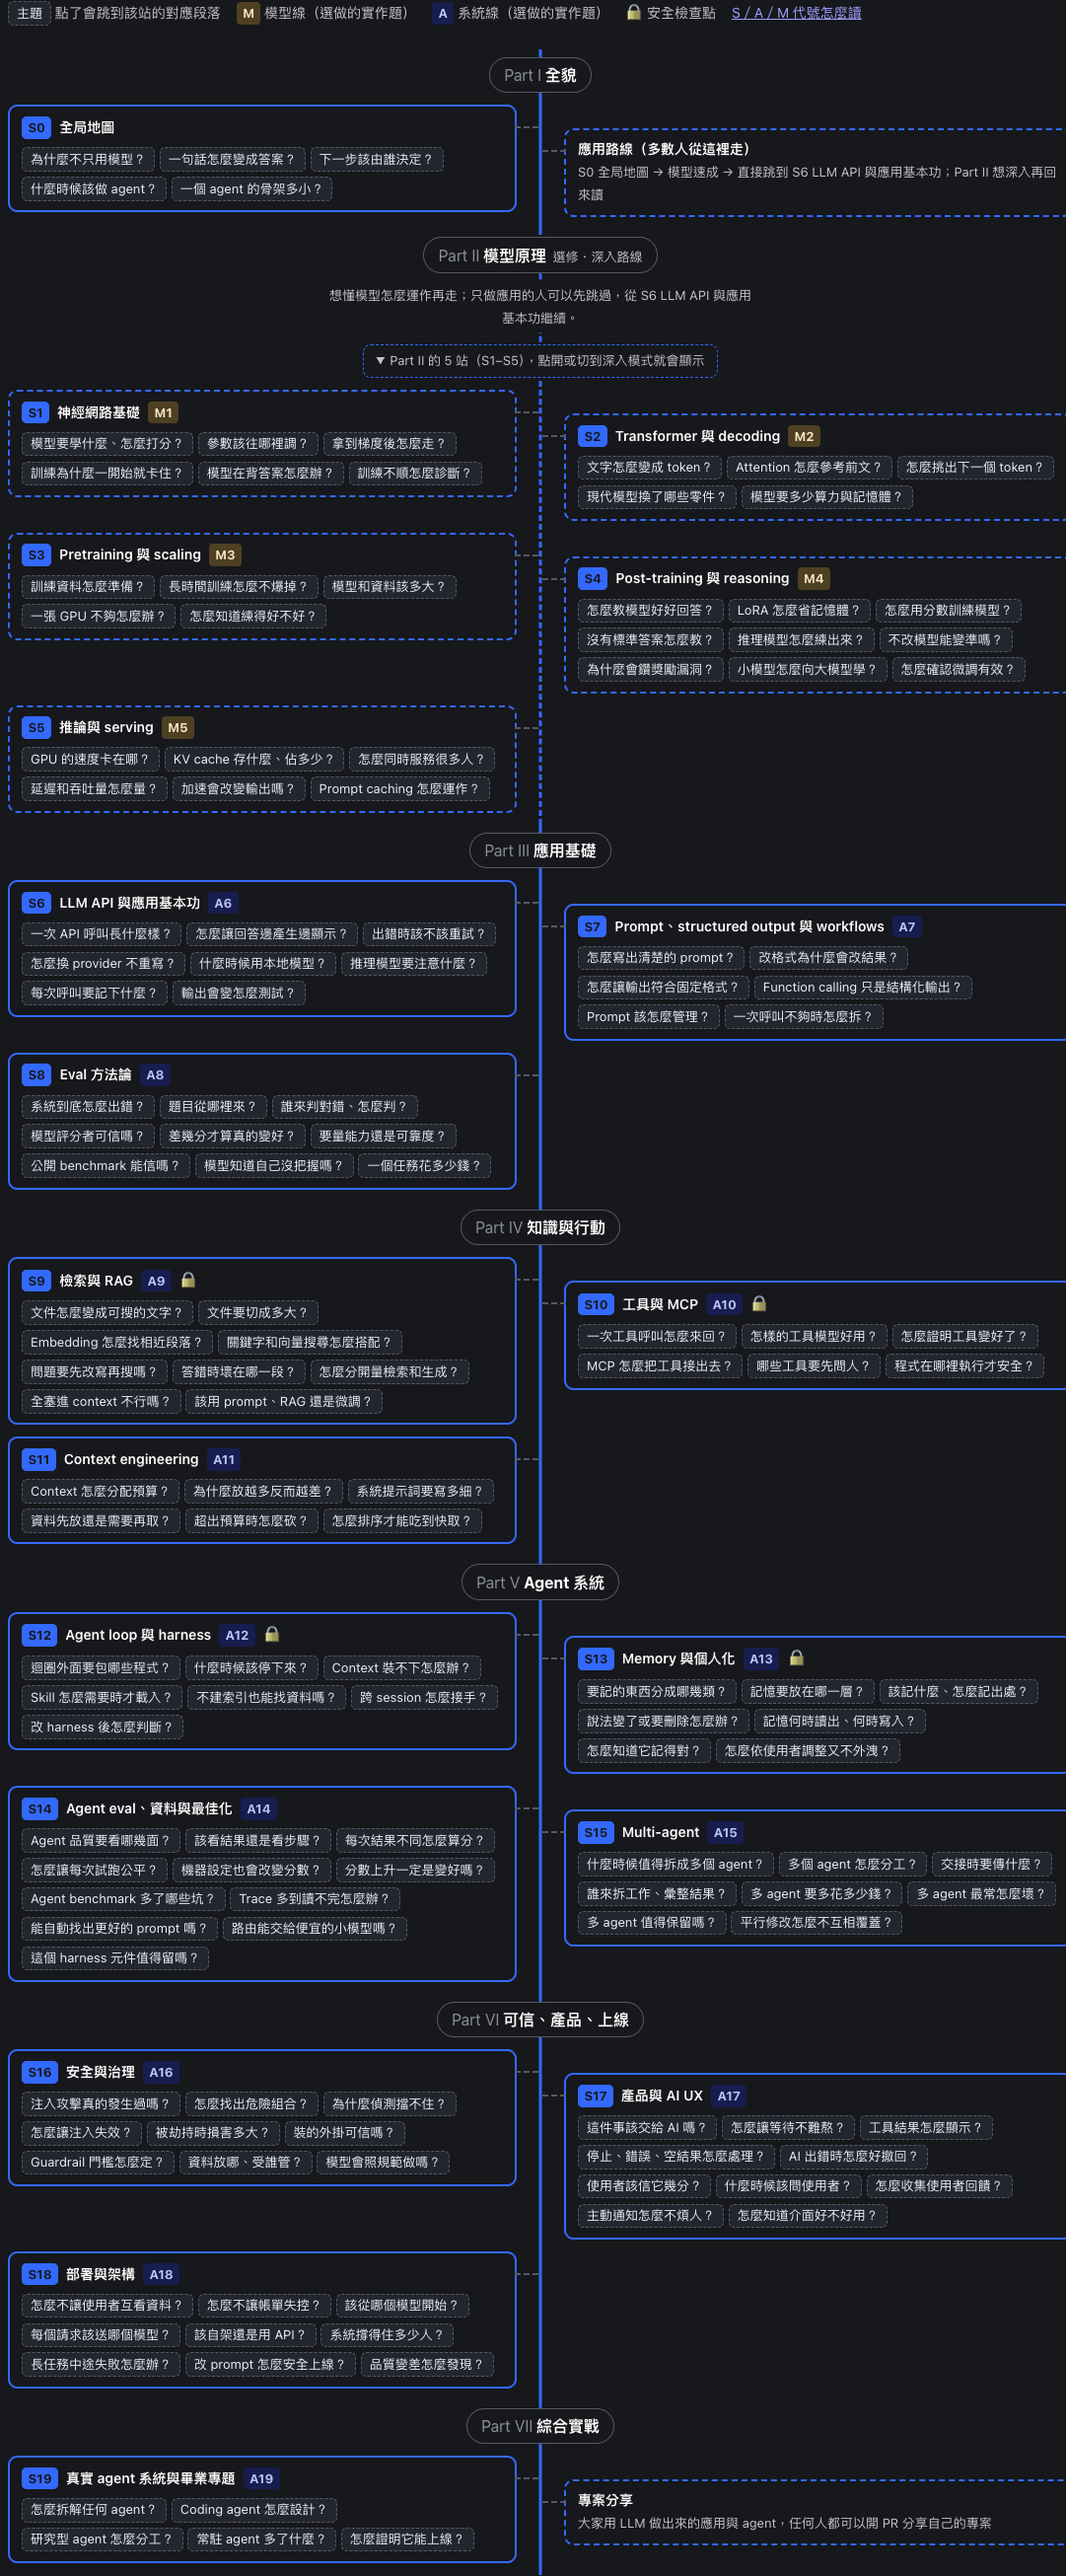
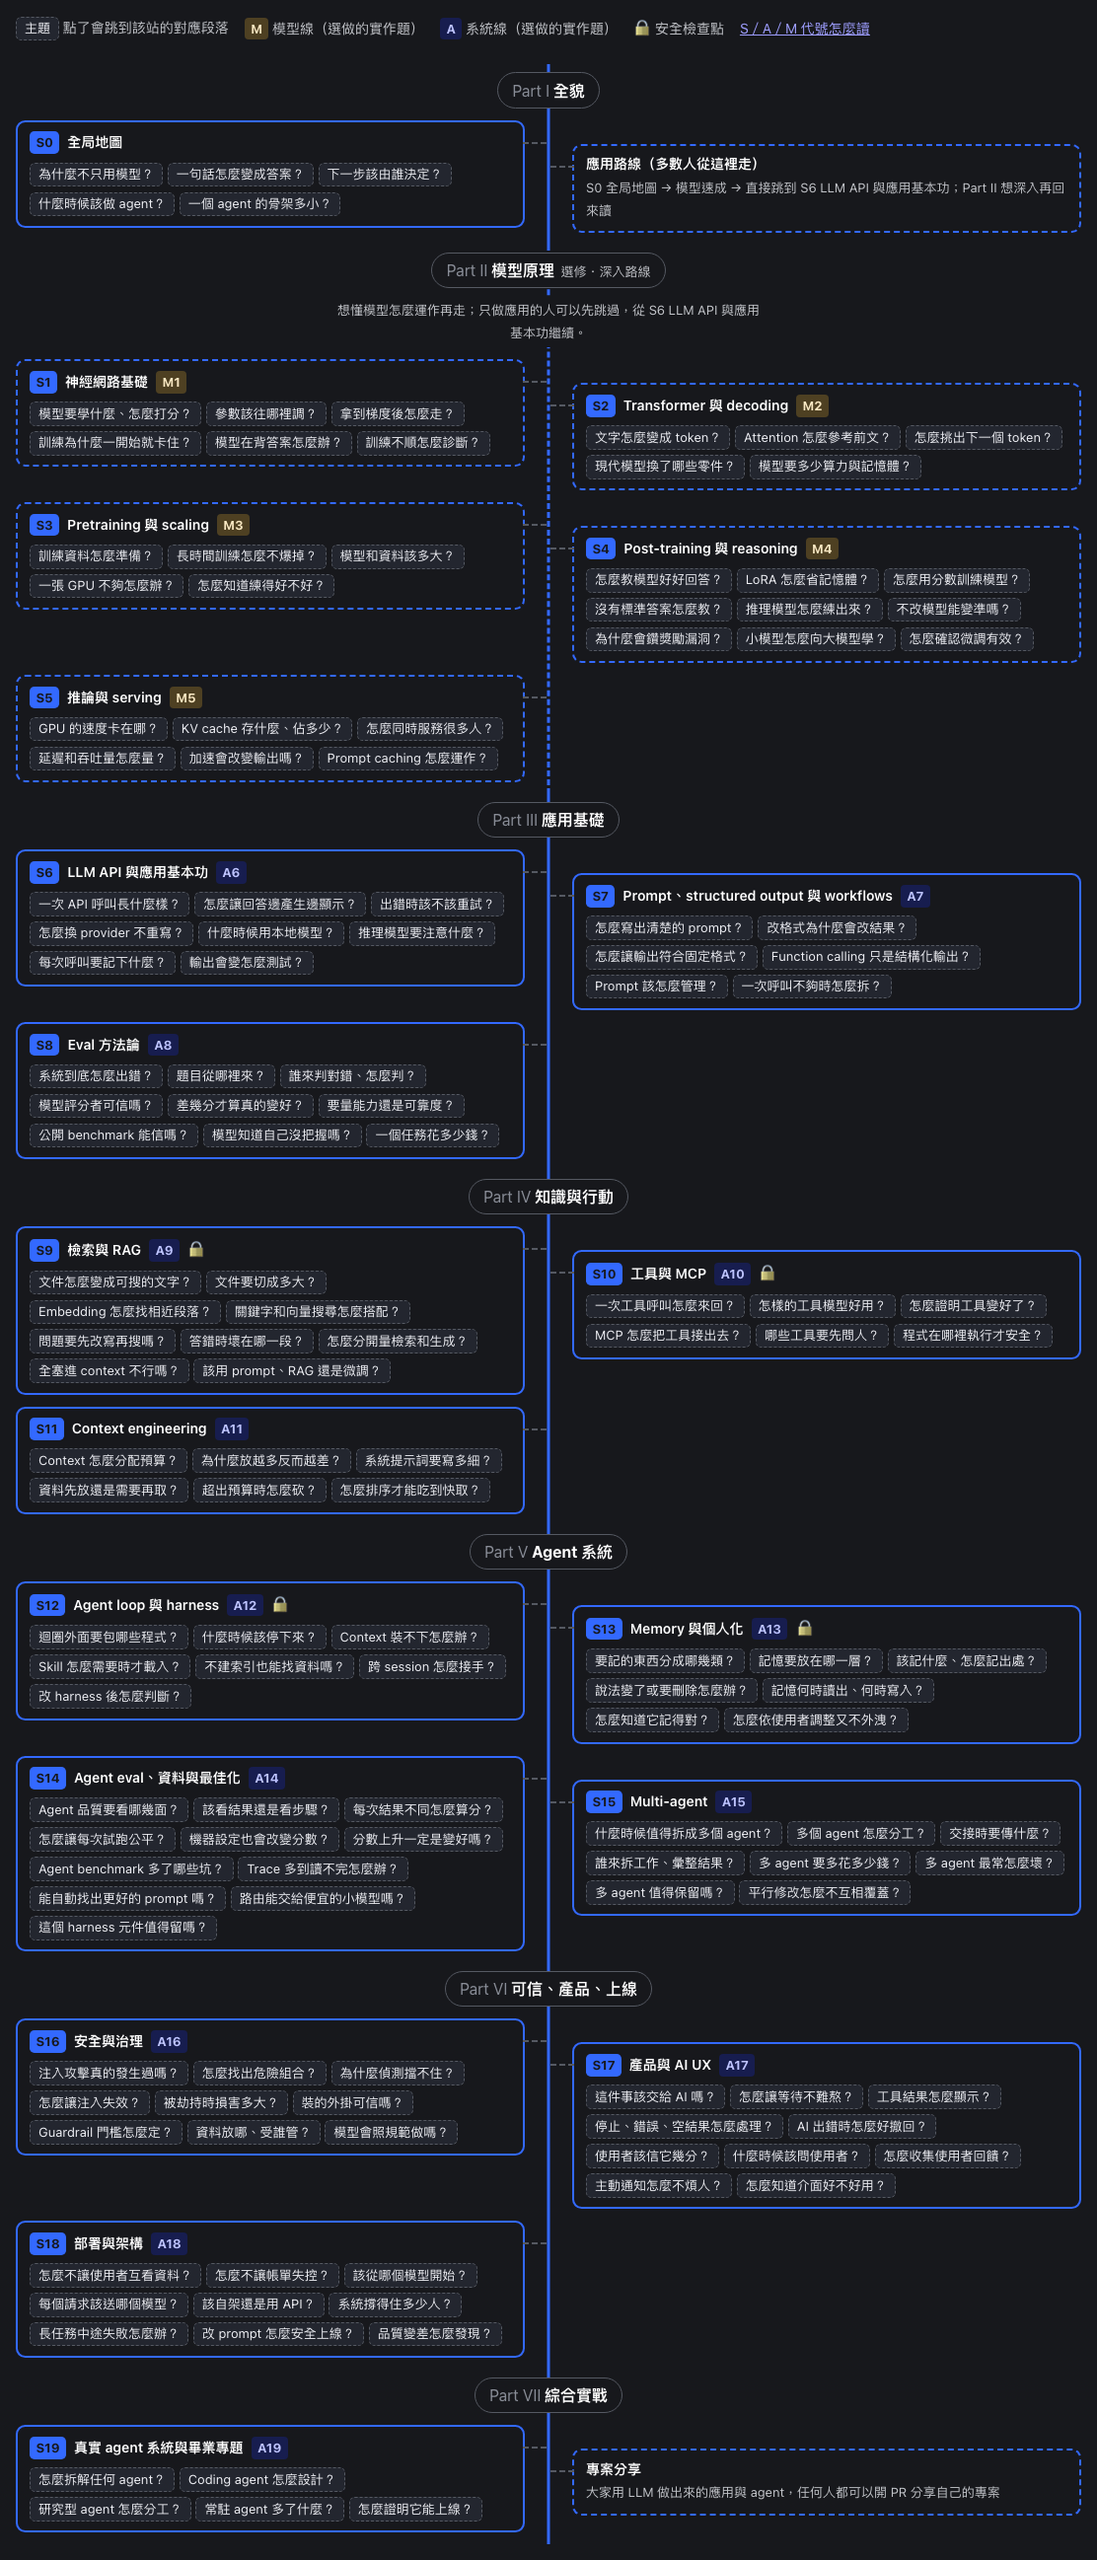
fix: uncropped README roadmap images and clearer home hero

diff --git a/src/styles/custom.css b/src/styles/custom.css
@@ -29,11 +29,59 @@
 .hero h1 {
 	font-size: clamp(var(--sl-text-3xl), calc(0.25rem + 4vw), var(--sl-text-5xl));
 }
+.hero .copy > * {
+	max-width: 42em;
+}
 .hero .tagline {
 	font-size: clamp(var(--sl-text-base), calc(0.0625rem + 1.5vw), var(--sl-text-lg));
 }
 @media (min-width: 50rem) {
 	.hero {
-		padding-block: 2.5rem 2rem;
+		padding-block: 3.5rem 2.5rem;
+	}
+}
+/* Home section headings sit one clear step below the hero title. */
+:root[data-has-hero] .sl-markdown-content h2 {
+	font-size: var(--sl-text-2xl);
+}
+
+/* Home hero buttons: visible hover feedback, and the minimal action reads as a link. */
+.hero .sl-link-button {
+	transition:
+		transform 0.15s ease,
+		box-shadow 0.15s ease,
+		background-color 0.15s ease,
+		border-color 0.15s ease,
+		color 0.15s ease;
+}
+.hero .sl-link-button svg {
+	transition: transform 0.15s ease;
+}
+.hero .sl-link-button.primary:hover {
+	transform: translateY(-2px);
+	box-shadow: 0 6px 16px -6px var(--sl-color-text-accent);
+}
+.hero .sl-link-button.primary:hover svg {
+	transform: translateX(3px);
+}
+.hero .sl-link-button.secondary:hover {
+	border-color: var(--sl-color-text-accent);
+	background: var(--sl-color-accent-low);
+	color: var(--sl-color-text-accent);
+}
+.hero .sl-link-button.minimal {
+	color: var(--sl-color-text-accent);
+	text-decoration: underline;
+	text-decoration-thickness: 1px;
+	text-underline-offset: 0.25em;
+}
+.hero .sl-link-button.minimal:hover {
+	text-decoration-thickness: 2px;
+}
+@media (prefers-reduced-motion: reduce) {
+	.hero .sl-link-button,
+	.hero .sl-link-button svg {
+		transition: none;
+		transform: none !important;
 	}
 }
